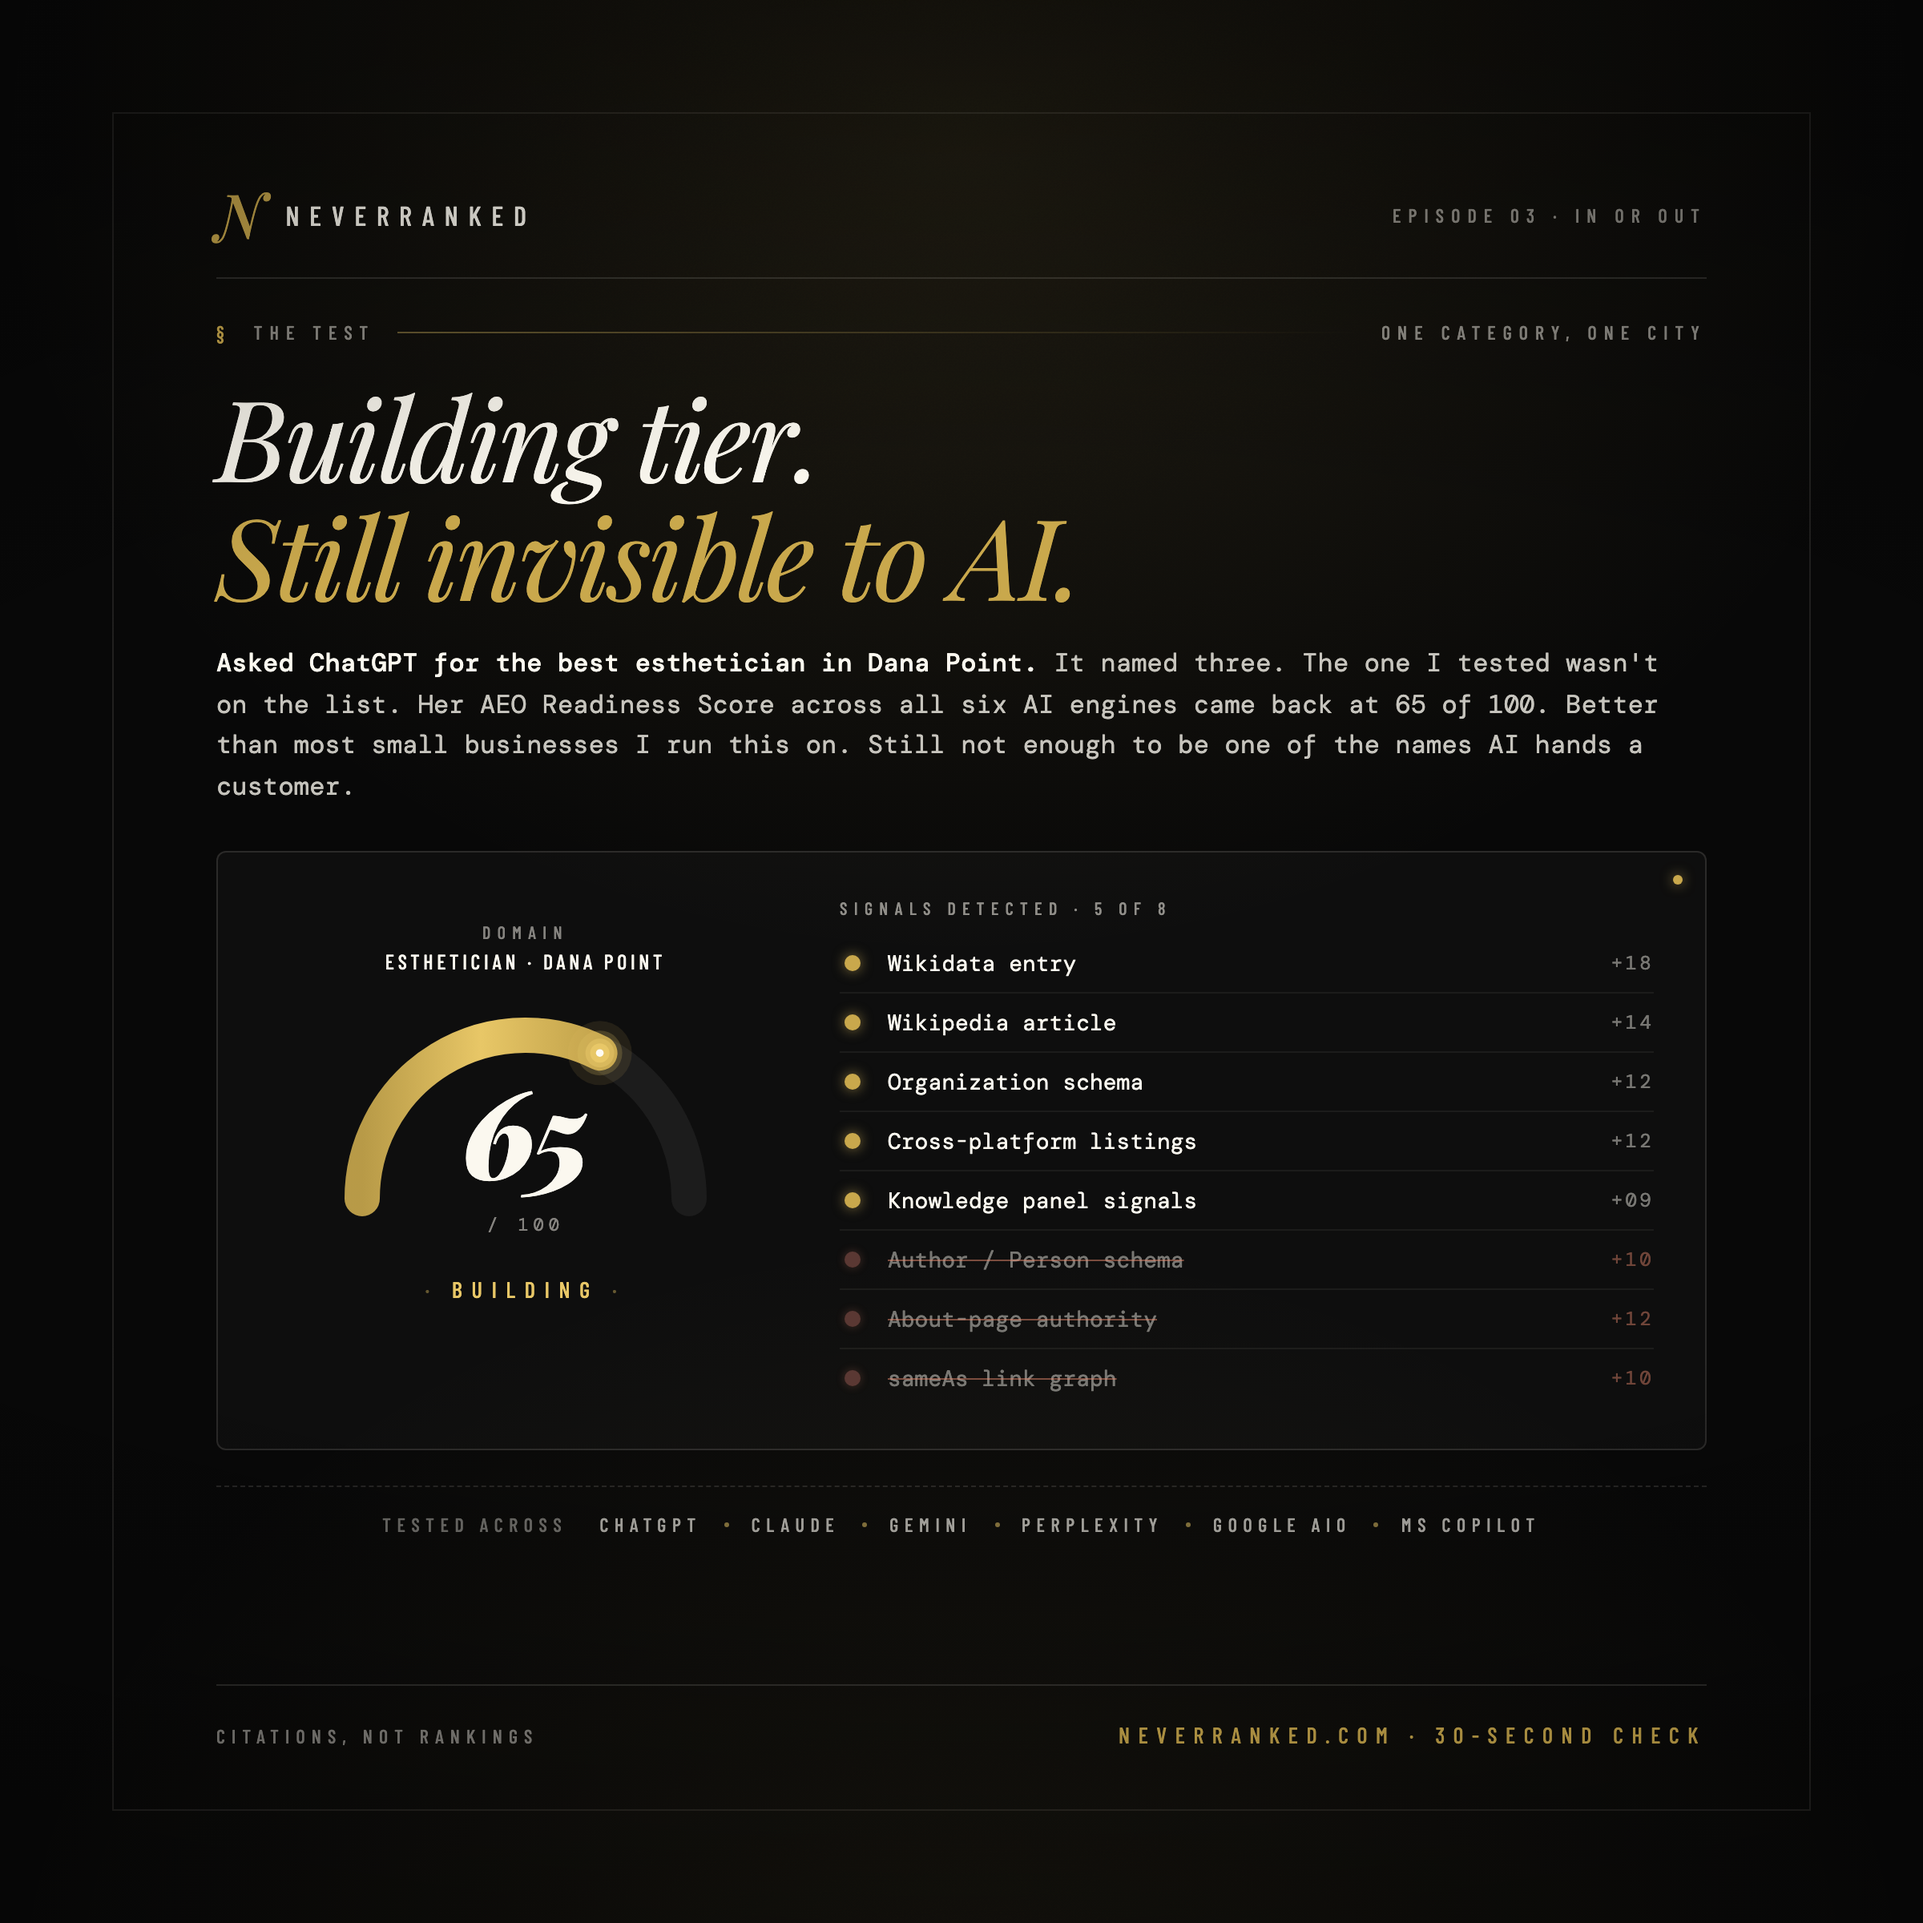
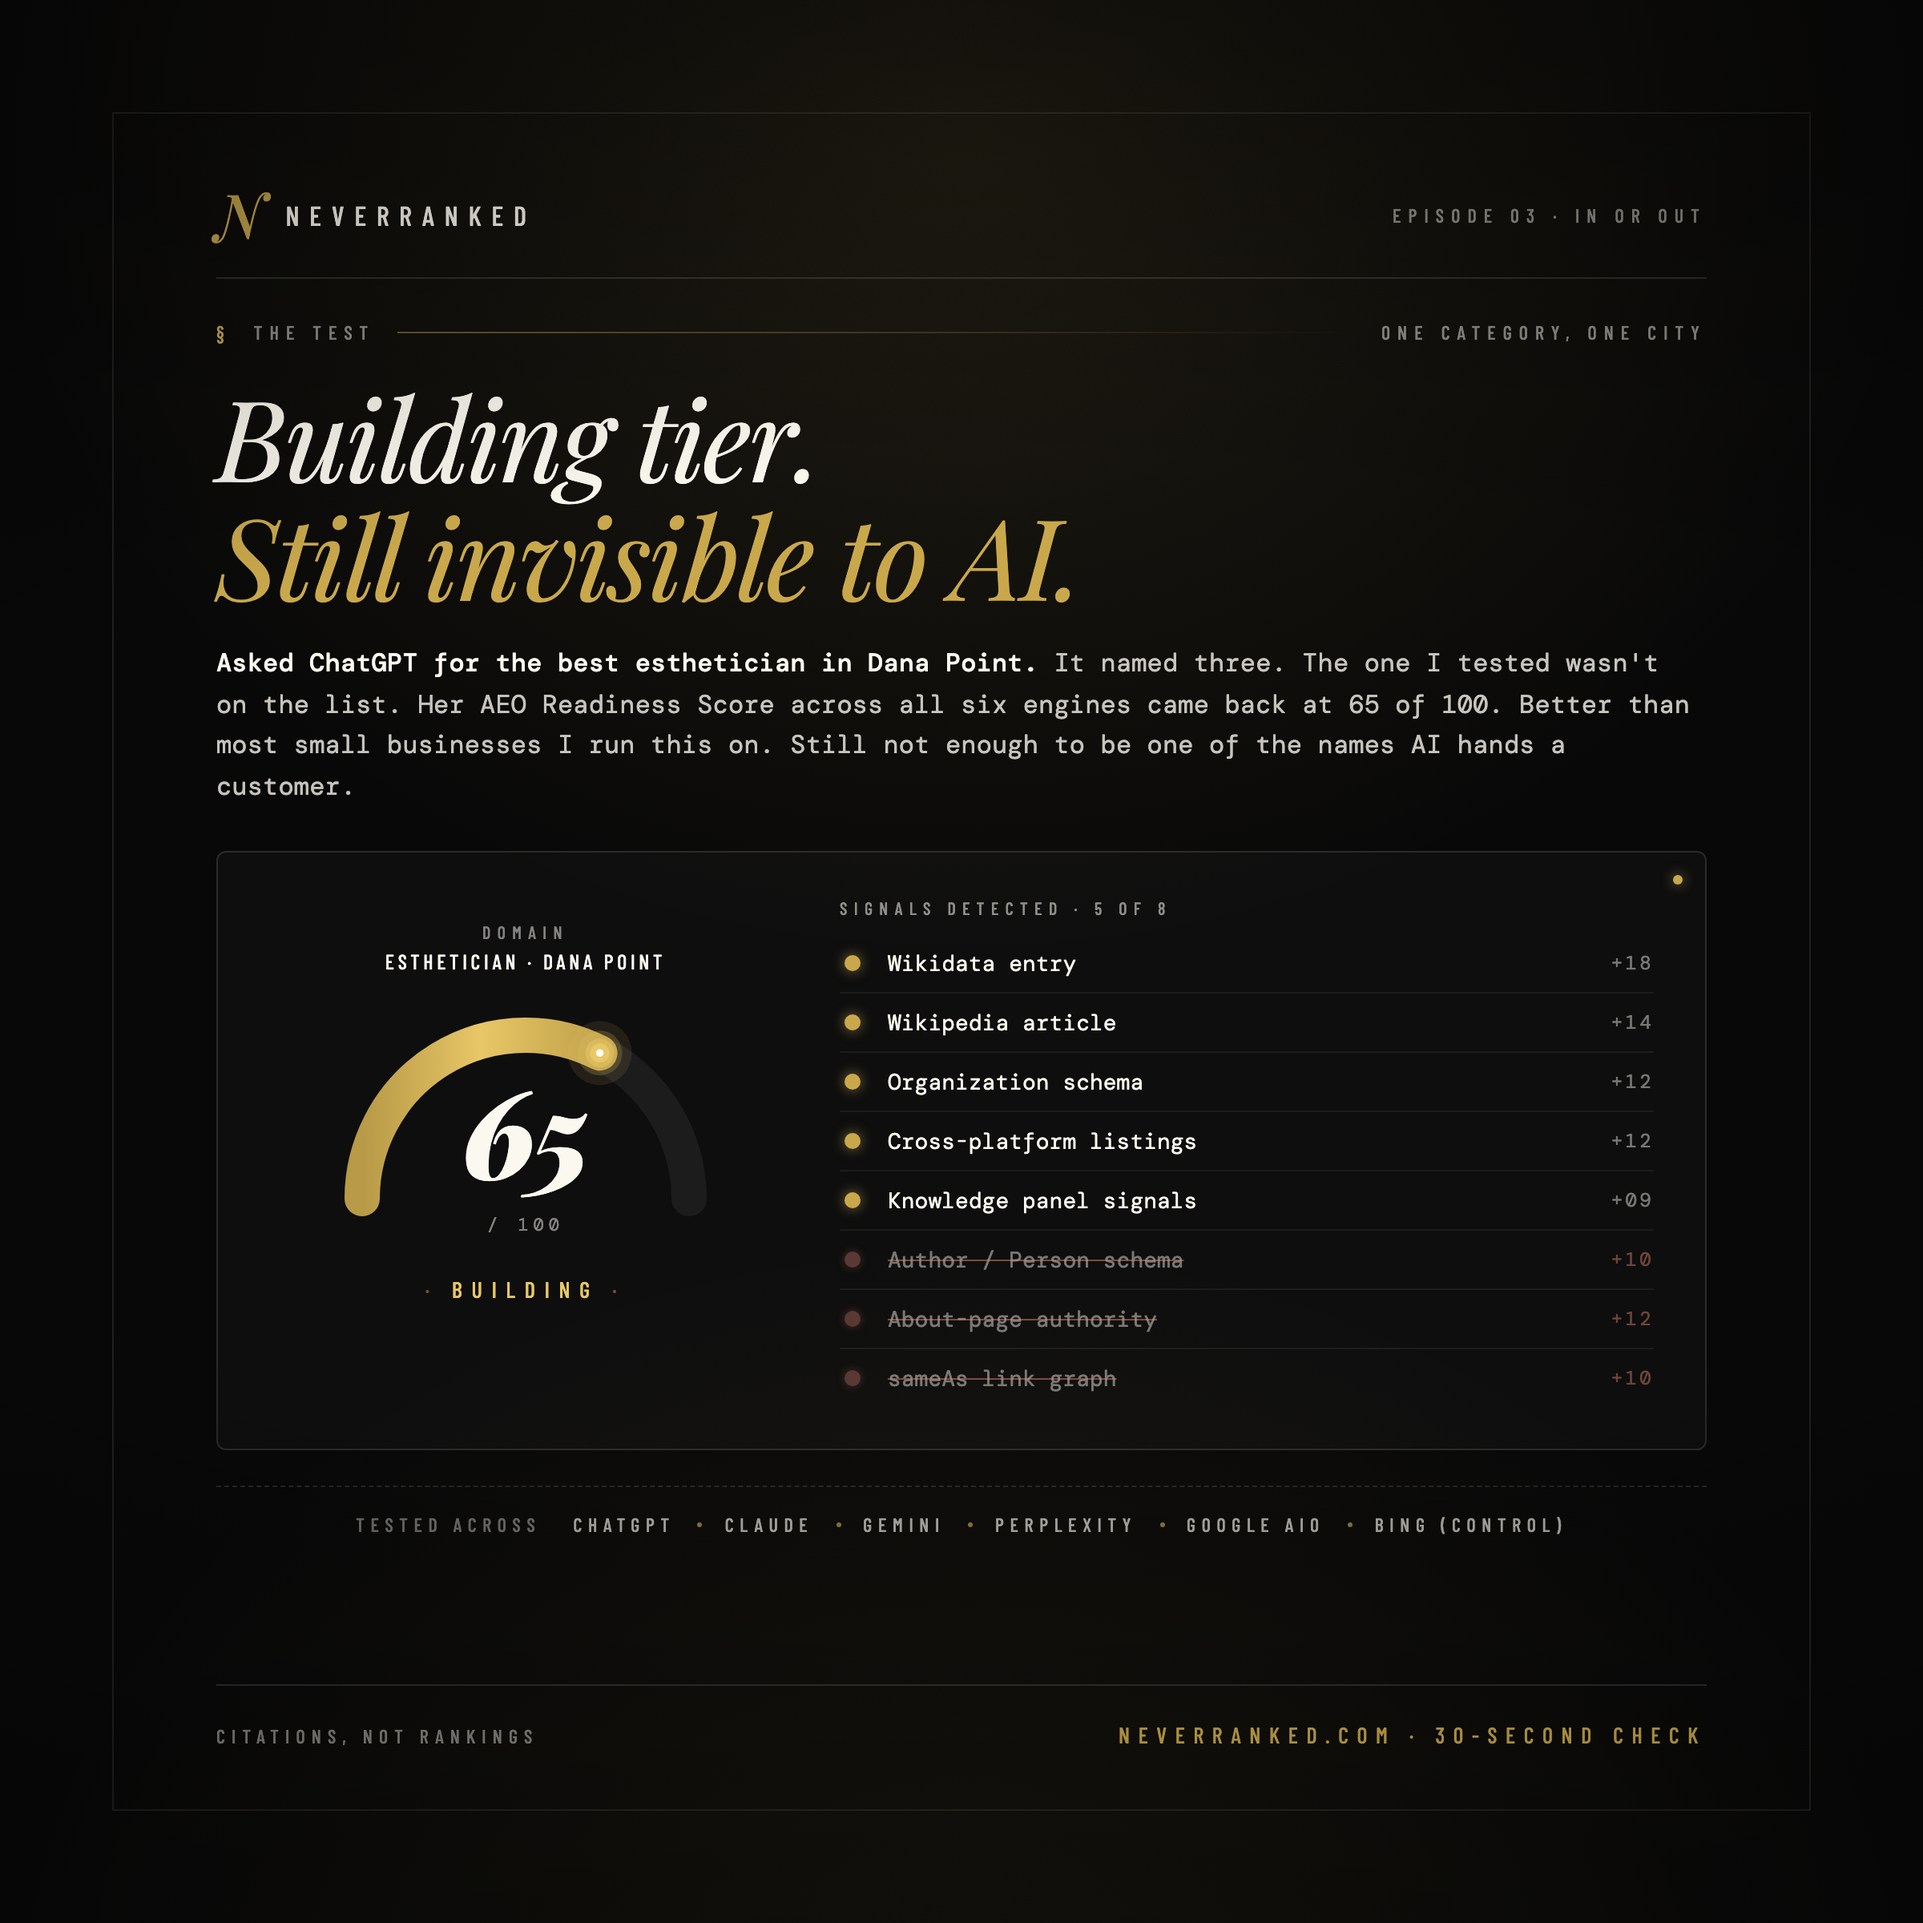
linkedin/post-03: retire the MS Copilot label, align the engine count
The tier-8 batch re-export regenerated post-03-scorecard.png from a source
still carrying "MS Copilot" in the engine strip. Strip now reads "Bing
(control)" and the body count drops "AI" so six engines = five AI + one
control reads true. Re-rendered; gate green.

diff --git a/linkedin/post-03-scorecard-source.html b/linkedin/post-03-scorecard-source.html
@@ -333,7 +333,7 @@
         <span class="gold">Still invisible to AI.</span>
       </h1>
       <p class="hero-sub">
-        <b>Asked ChatGPT for the best esthetician in Dana Point.</b> It named three. The one I tested wasn't on the list. Her AEO Readiness Score across all six AI engines came back at 65 of 100. Better than most small businesses I run this on. Still not enough to be one of the names AI hands a customer.
+        <b>Asked ChatGPT for the best esthetician in Dana Point.</b> It named three. The one I tested wasn't on the list. Her AEO Readiness Score across all six engines came back at 65 of 100. Better than most small businesses I run this on. Still not enough to be one of the names AI hands a customer.
       </p>
     </div>
 
@@ -394,7 +394,7 @@
       <span>Gemini</span><span class="dot"></span>
       <span>Perplexity</span><span class="dot"></span>
       <span>Google AIO</span><span class="dot"></span>
-      <span>MS Copilot</span>
+      <span>Bing (control)</span>
     </div>
 
     <div class="footer">
